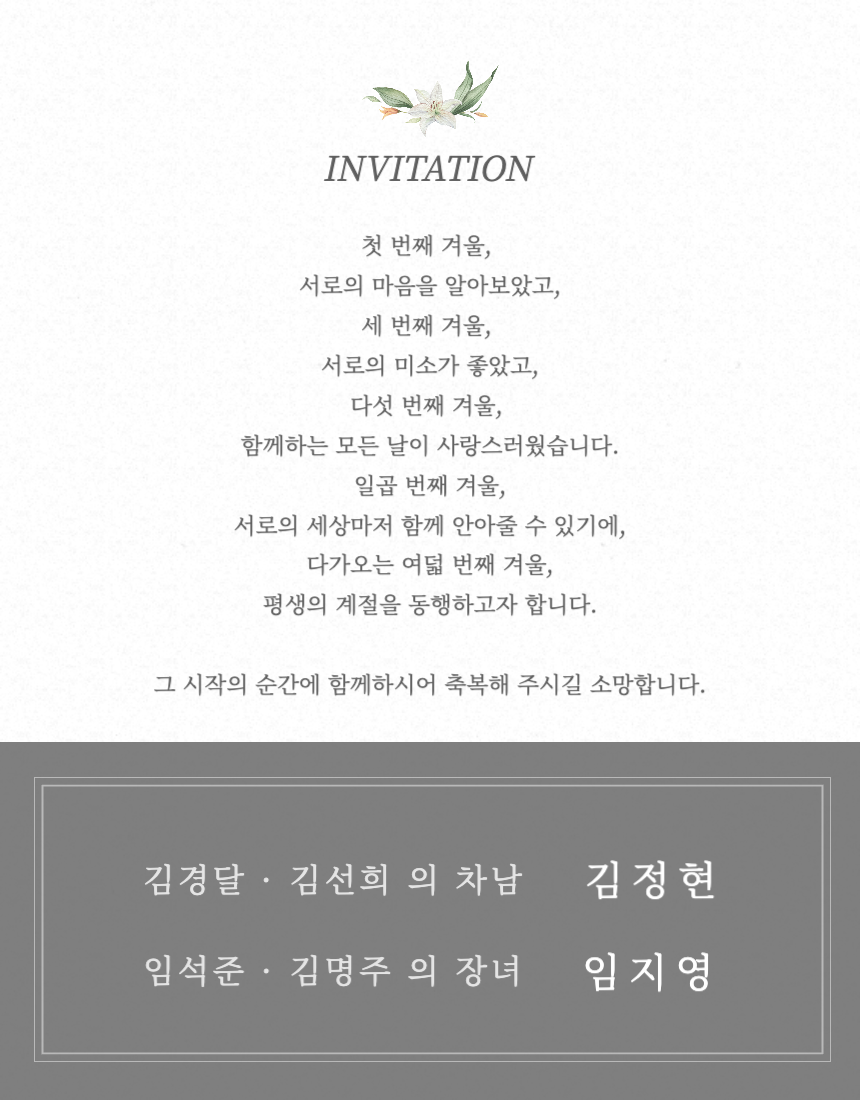
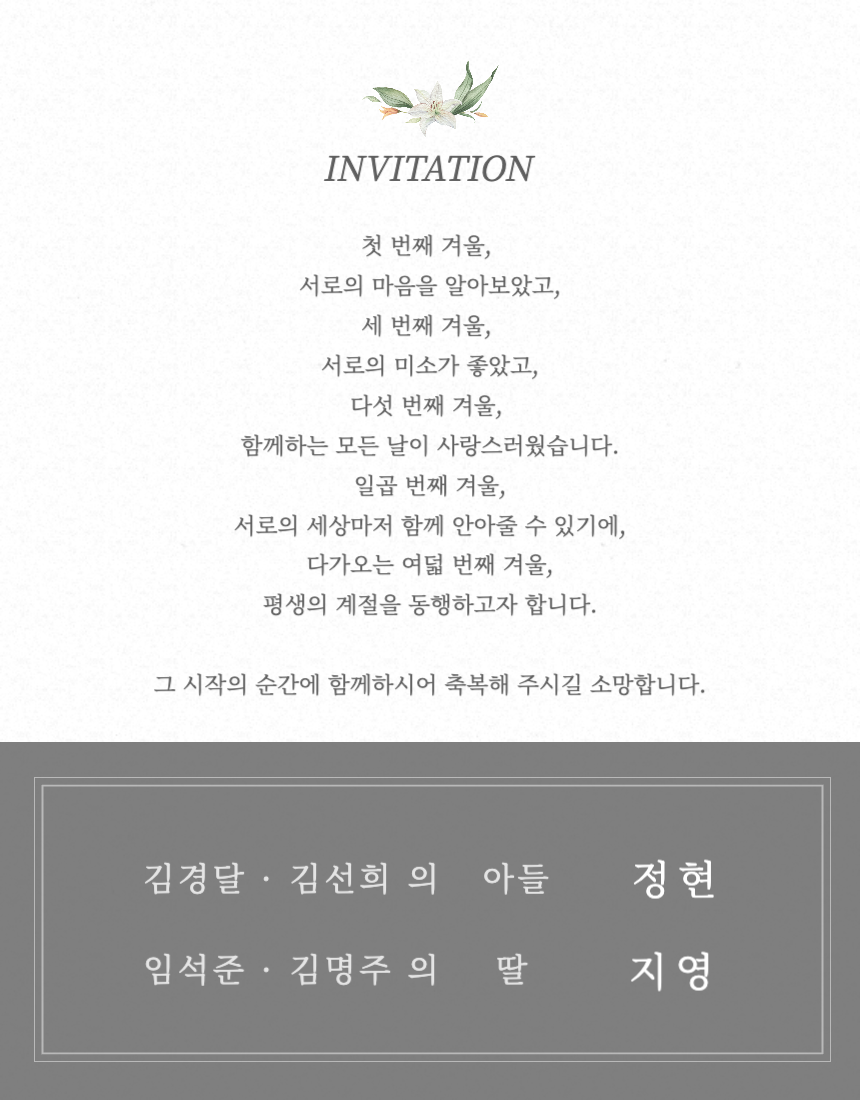
daegu

diff --git a/daegu/index.html b/daegu/index.html
@@ -1,0 +1,57 @@
+<!DOCTYPE html>
+<html lang="en">
+  <head>
+    <meta charset="UTF-8" />
+    <meta http-equiv="X-UA-Compatible" content="IE=edge" />
+    <meta name="viewport" content="width=device-width, initial-scale=1.0" />
+
+    <title>김정현♥임지영 결혼합니다 (2023.12.02)</title>
+    <meta name="description" content="Since 2015.12.01" />
+
+    <meta property="og:url" content="https://dpnia.github.io/wedding/" />
+    <meta property="og:type" content="website" />
+    <meta property="og:title" content="김정현♥임지영 결혼합니다 (2023.12.02)" />
+    <meta property="og:description" content="Since 2015.12.01" />
+    <meta property="og:image" content="https://dpnia.github.io/wedding/images/og.jpg" />
+
+    <link rel="stylesheet" type="text/css" href="./index.css" />
+  </head>
+  <body>
+    <img loading="lazy" src="../images/001.png" class="first" />
+    <img loading="lazy" src="../images/002.png"  />
+
+    <img loading="lazy" src="../images/003.png" />
+    <img loading="lazy" src="../images/003-1.png" />
+    <img loading="lazy" src="../images/004.png" />
+    <!-- <img loading="lazy" src="../images/005.png" /> -->
+    <img loading="lazy" src="../images/006.png" />
+    <img loading="lazy" src="../images/007.png" />
+    <img loading="lazy" src="../images/008.png" />
+    <!-- <img loading="lazy" src="../images/009.png" /> -->
+    <img loading="lazy" src="../images/010.png" />
+    <img loading="lazy" src="../images/011.png" />
+    <img loading="lazy" src="../images/012.png" />
+    <!-- <img loading="lazy" src="../images/013.png" /> -->
+    <!-- <img loading="lazy" src="../images/014.png" /> -->
+    <img loading="lazy" src="../images/015.png" />
+    <img loading="lazy" src="../images/016.png" />
+    <img loading="lazy" src="../images/017.png" />
+    <!-- <img loading="lazy" src="../images/018.png" /> -->
+    <img loading="lazy" src="../images/019.png" />
+    <img loading="lazy" src="../images/020.png" />
+    <img loading="lazy" src="../images/021.png" />
+    <img loading="lazy" src="../images/daegu022.png" />
+    <img loading="lazy" src="../images/daegu023.png" />
+
+    <div class="button-group">
+      <button class="up">↑</button>
+      <button class="down">↓</button>
+    </div>
+    <script>
+      const up = document.querySelector('.up');
+      const down = document.querySelector('.down');
+      up.addEventListener('click', () => window.scrollTo({ top: 0, behavior: 'smooth' }));
+      down.addEventListener('click', () => window.scrollTo({ top: document.body.scrollHeight, behavior: 'smooth' }));
+    </script>
+  </body>
+</html>

diff --git a/daegu/index.css b/daegu/index.css
@@ -1,0 +1,40 @@
+body {
+  display: flex;
+  flex-direction: column;
+  width: 100%;
+  margin: 0;
+}
+img {
+  width: 100%;
+}
+.button-group {
+  position: fixed;
+  right: 50px;
+  bottom: 50px;
+  display: flex;
+  flex-direction: column;
+}
+button {
+  margin-top: 10px;
+  height: 50px;
+  width: 50px;
+  border: none;
+  border-radius: 50%;
+  font-size: 25px;
+  color: #afafaf;
+  display: flex;
+  align-items: center;
+  justify-content: center;
+  background-color: #f4f3f3;
+}
+@media (max-width: 600px) {
+  .button-group {
+    right: 30px;
+    bottom: 30px;
+  }
+  button {
+    height: 30px;
+    width: 30px;
+    font-size: 15px;
+  }
+}
